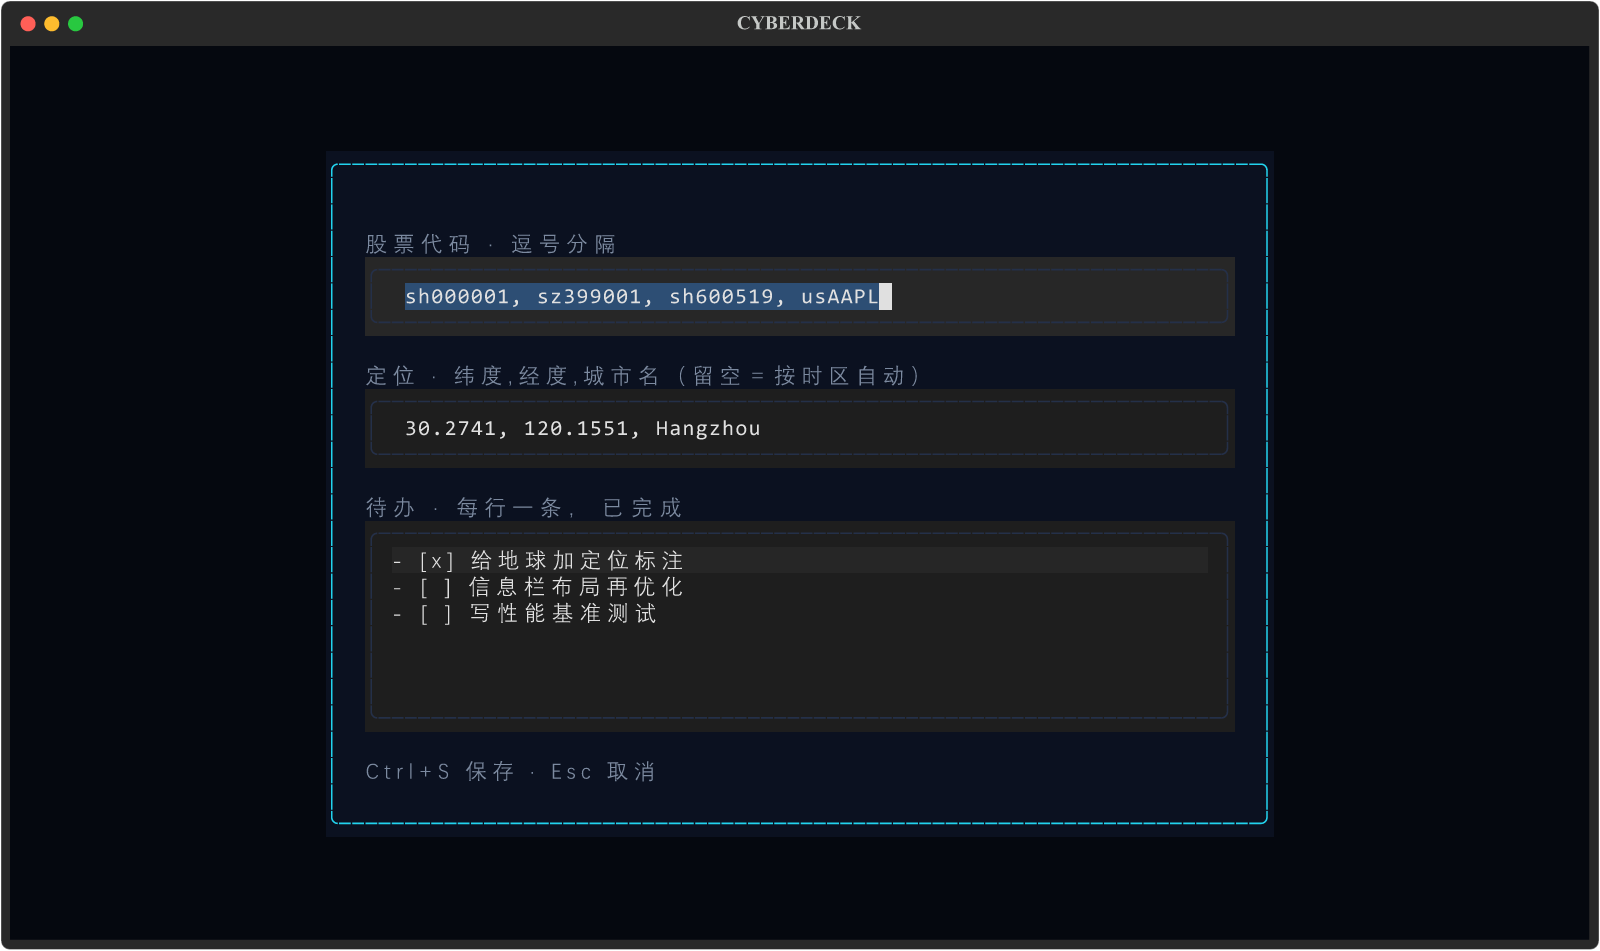
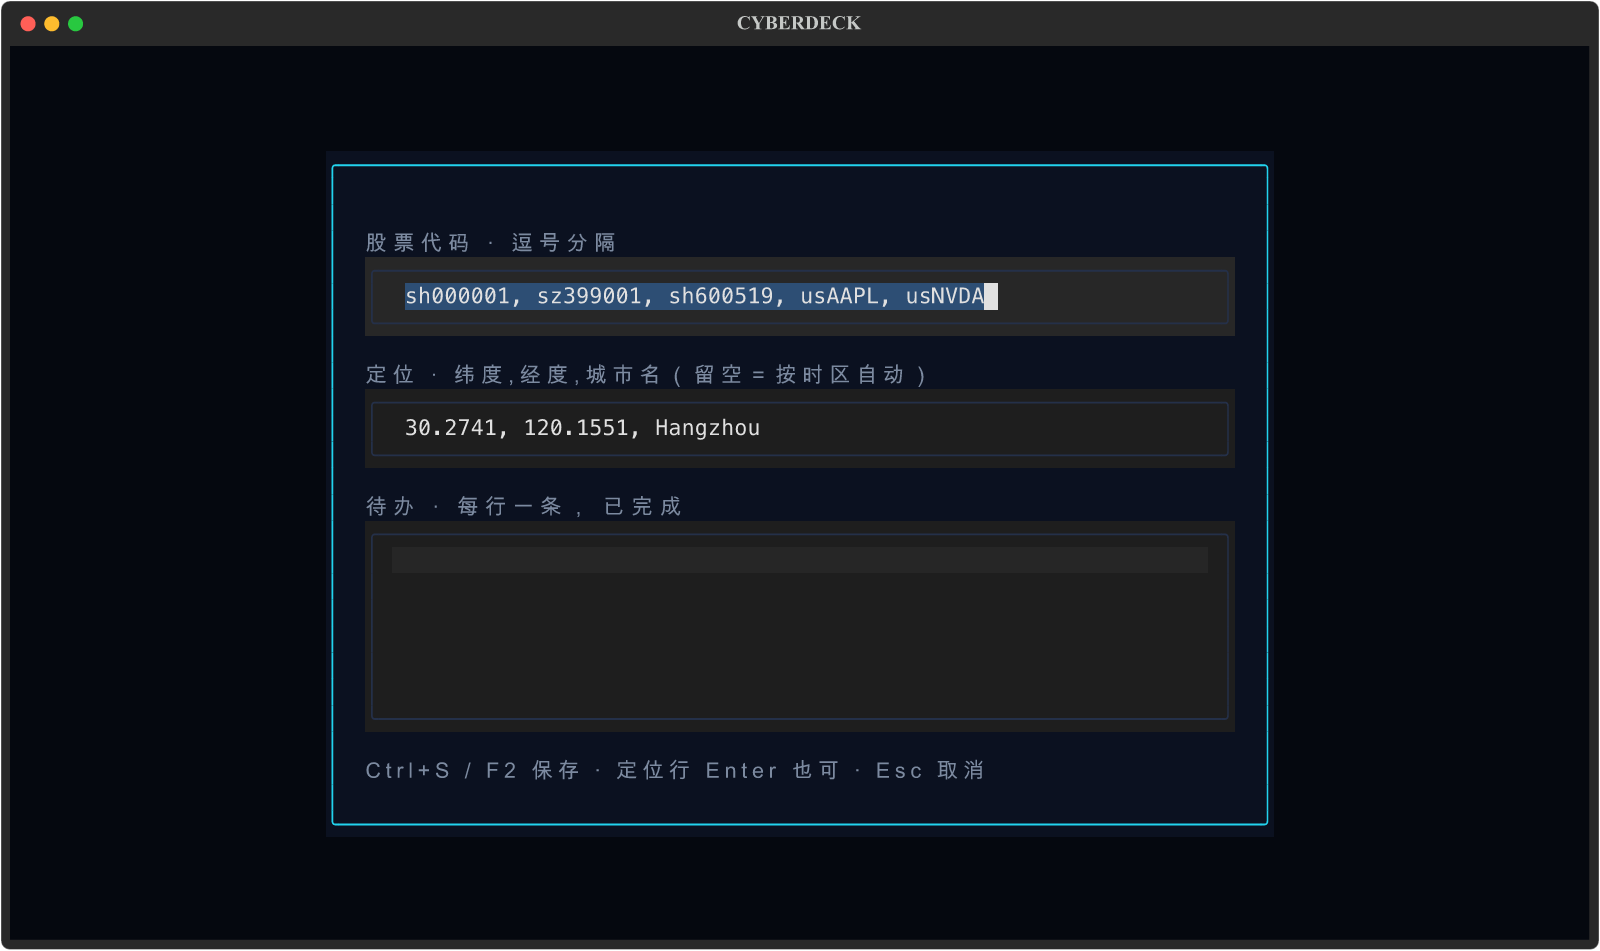
fix: reliable saving in the location editor on macOS
macOS terminals often treat Ctrl+S as XOFF flow control and never deliver
it to the app, so the editor looked stuck. Add F2 and Cmd+S bindings and
save on Enter while the location field is focused. Update the hint,
editor screenshot, README and changelog.

diff --git a/src/cyberdeck/editor.py b/src/cyberdeck/editor.py
@@ -16,6 +16,8 @@ class EditorScreen(ModalScreen[dict | None]):
 
     BINDINGS = [
         Binding("ctrl+s", "save", "保存"),
+        Binding("super+s", "save", "保存", show=False),
+        Binding("f2", "save", "保存", show=False),
         Binding("escape", "cancel", "取消"),
     ]
 
@@ -43,7 +45,7 @@ class EditorScreen(ModalScreen[dict | None]):
             yield Input(self.location, id="location", placeholder="31.2304, 121.4737, Shanghai")
             yield Static("待办 · 每行一条，[x] 已完成", classes="field")
             yield TextArea(self.todo_text, id="todo")
-            yield Static("Ctrl+S 保存 · Esc 取消", id="hint")
+            yield Static("Ctrl+S / F2 保存 · 定位行 Enter 也可 · Esc 取消", id="hint")
 
     def on_mount(self) -> None:
         p = theme.P
@@ -55,6 +57,12 @@ class EditorScreen(ModalScreen[dict | None]):
         for label in self.query('.field'):
             label.styles.color = theme.hexc(p.dim)
         self.query_one("#stocks", Input).focus()
+
+    def on_input_submitted(self, event: Input.Submitted) -> None:
+        # Enter in the location field saves: macOS terminals often swallow Ctrl+S
+        # for XOFF flow control, so give them a key that always arrives.
+        if event.input.id == "location":
+            self.action_save()
 
     def action_save(self) -> None:
         stocks = self.query_one("#stocks", Input).value

diff --git a/tests/test_core.py b/tests/test_core.py
@@ -579,3 +579,10 @@ def test_weather_city_uses_pin_coords(monkeypatch):
     assert app._weather_city() == "30.0000,120.0000"
     app.config["location"]["name"] = "Hangzhou"
     assert app._weather_city() == "Hangzhou"
+
+
+def test_editor_save_keys():
+    from cyberdeck.editor import EditorScreen
+
+    keys = {binding.key for binding in EditorScreen.BINDINGS}
+    assert {"ctrl+s", "super+s", "f2", "escape"} <= keys

diff --git a/README.md b/README.md
@@ -148,7 +148,7 @@ sudo dnf install playerctl        # Fedora
 - **定位**：`纬度, 经度, 城市名`（`30.2741, 120.1551, Hangzhou`），留空回到自动（系统时区）
 - **待办**：一行一条，`[x]` 表示已完成，`#` 开头是注释
 
-`Ctrl+S` 保存（写回 `config.json` 和 `todo.txt`，地球红点和天气城市立刻切换），`Esc` 取消。文件本身也可以直接用编辑器改，面板会按修改时间自动重读。
+`Ctrl+S` / `F2` 保存（写回 `config.json` 和 `todo.txt`，地球红点和天气城市立刻切换）。macOS 终端可能把 `Ctrl+S` 当成 XOFF 流控吞掉，这时用 `F2`，或在定位行直接按 `Enter`。`Esc` 取消。文件本身也可以直接用编辑器改，面板会按修改时间自动重读。
 
 ## 地球定位标注
 

diff --git a/README.en.md b/README.en.md
@@ -160,8 +160,9 @@ One dialog, three things:
 - **Location**: `lat, lon, city` (`30.2741, 120.1551, Hangzhou`); leave it blank to fall back to the timezone
 - **Todo**: one item per line, `[x]` for done, `#` for comments
 
-`Ctrl+S` saves (writes `config.json` and `todo.txt`, and moves the pin and weather city
-immediately), `Esc` cancels. The files can be edited directly too — panels re-read them
+`Ctrl+S` / `F2` saves (writes `config.json` and `todo.txt`, and moves the pin and weather city
+immediately). macOS terminals may swallow `Ctrl+S` as XOFF flow control, so use `F2`, or
+press `Enter` while the location field is focused. `Esc` cancels. The files can be edited directly too — panels re-read them
 on mtime.
 
 ## Globe location pin

diff --git a/CHANGELOG.md b/CHANGELOG.md
@@ -10,6 +10,7 @@
 - 留空会真正回到系统时区：同时从 `config.json` 删掉旧的 `location` / `city`，地球标记立即清除
 - 只填经纬度时直接用坐标查天气；格式错误会保留原定位并给出提示，不会静默清空
 - 运行中手改 `config.json` 的 `location` 也会在 5 秒内同步地球标记和天气城市，不需要重启
+- macOS 上 `Ctrl+S` 常被终端当成 XOFF 流控吞掉：保存新增 `F2` / `Cmd+S`，定位行按 `Enter` 也能保存
 - 默认城市改为按系统时区推断，挂 VPN 不会再被出口 IP 带到东京
 - `location.name` 同时作天气城市；换主题不再覆盖手写的 `location`
 
